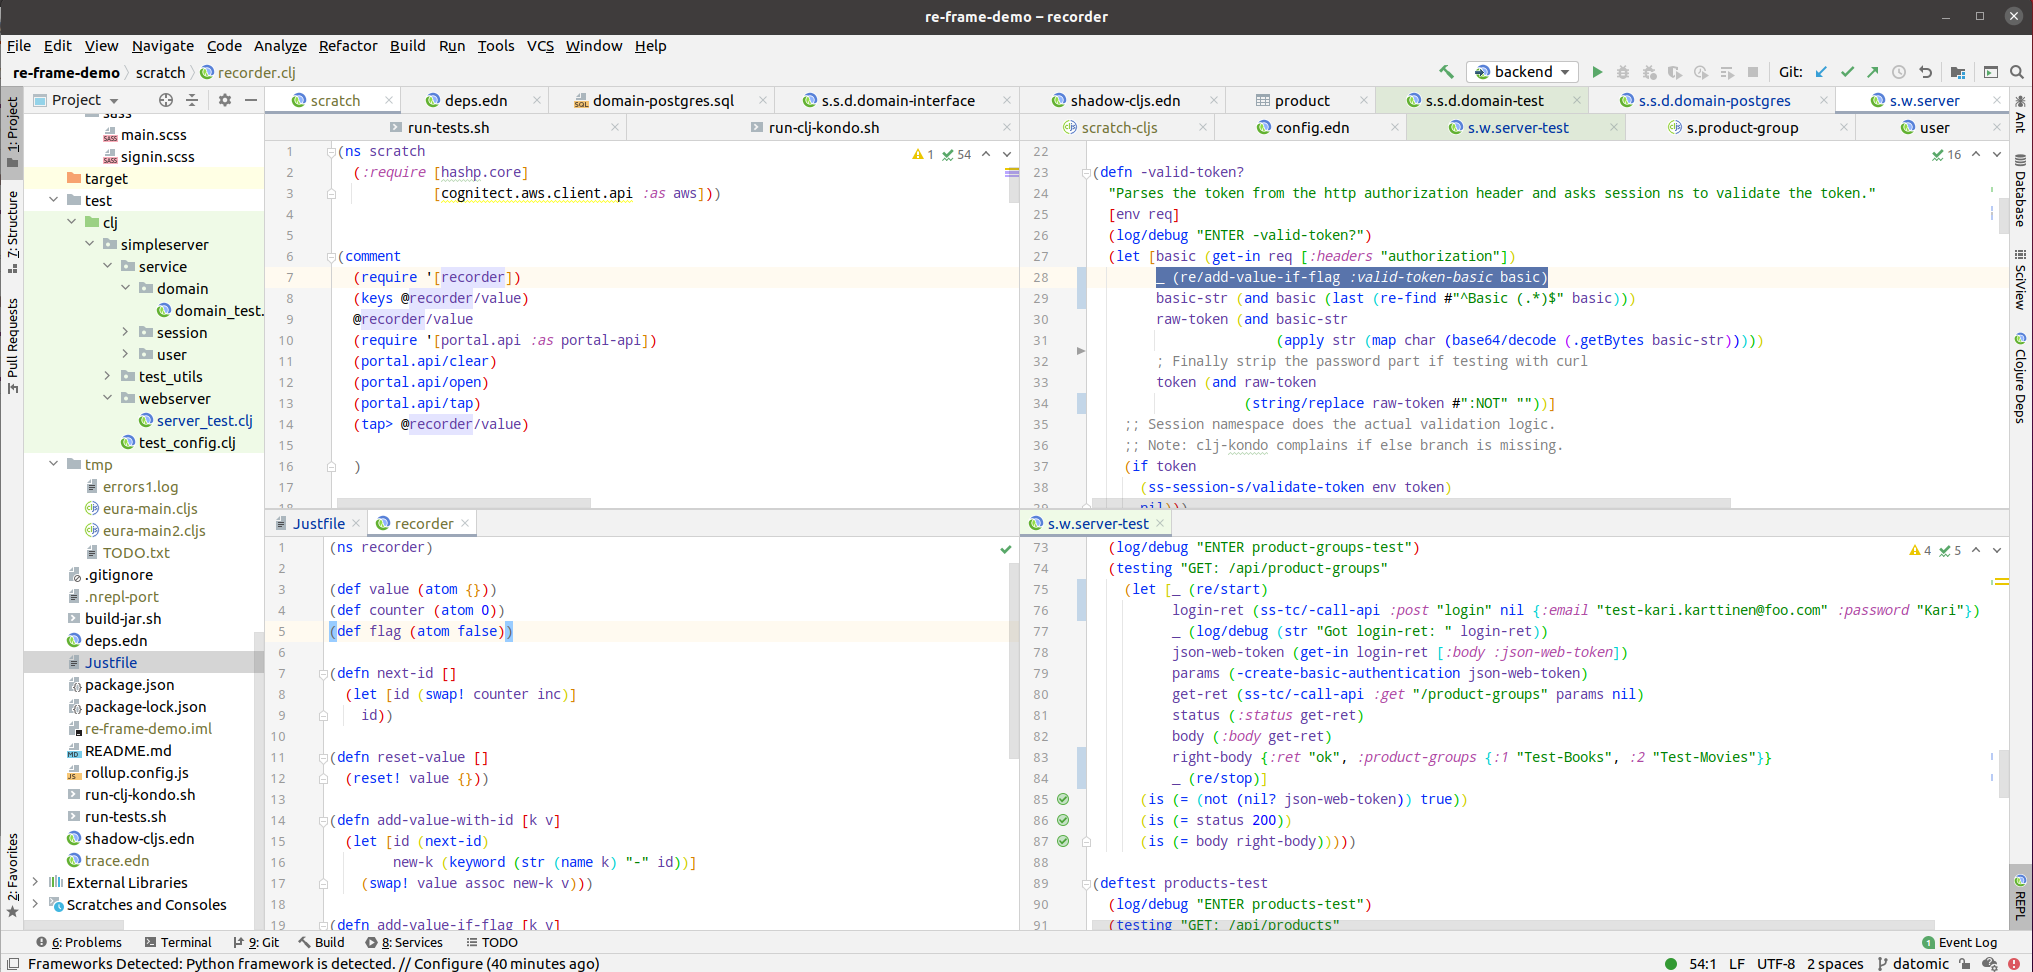
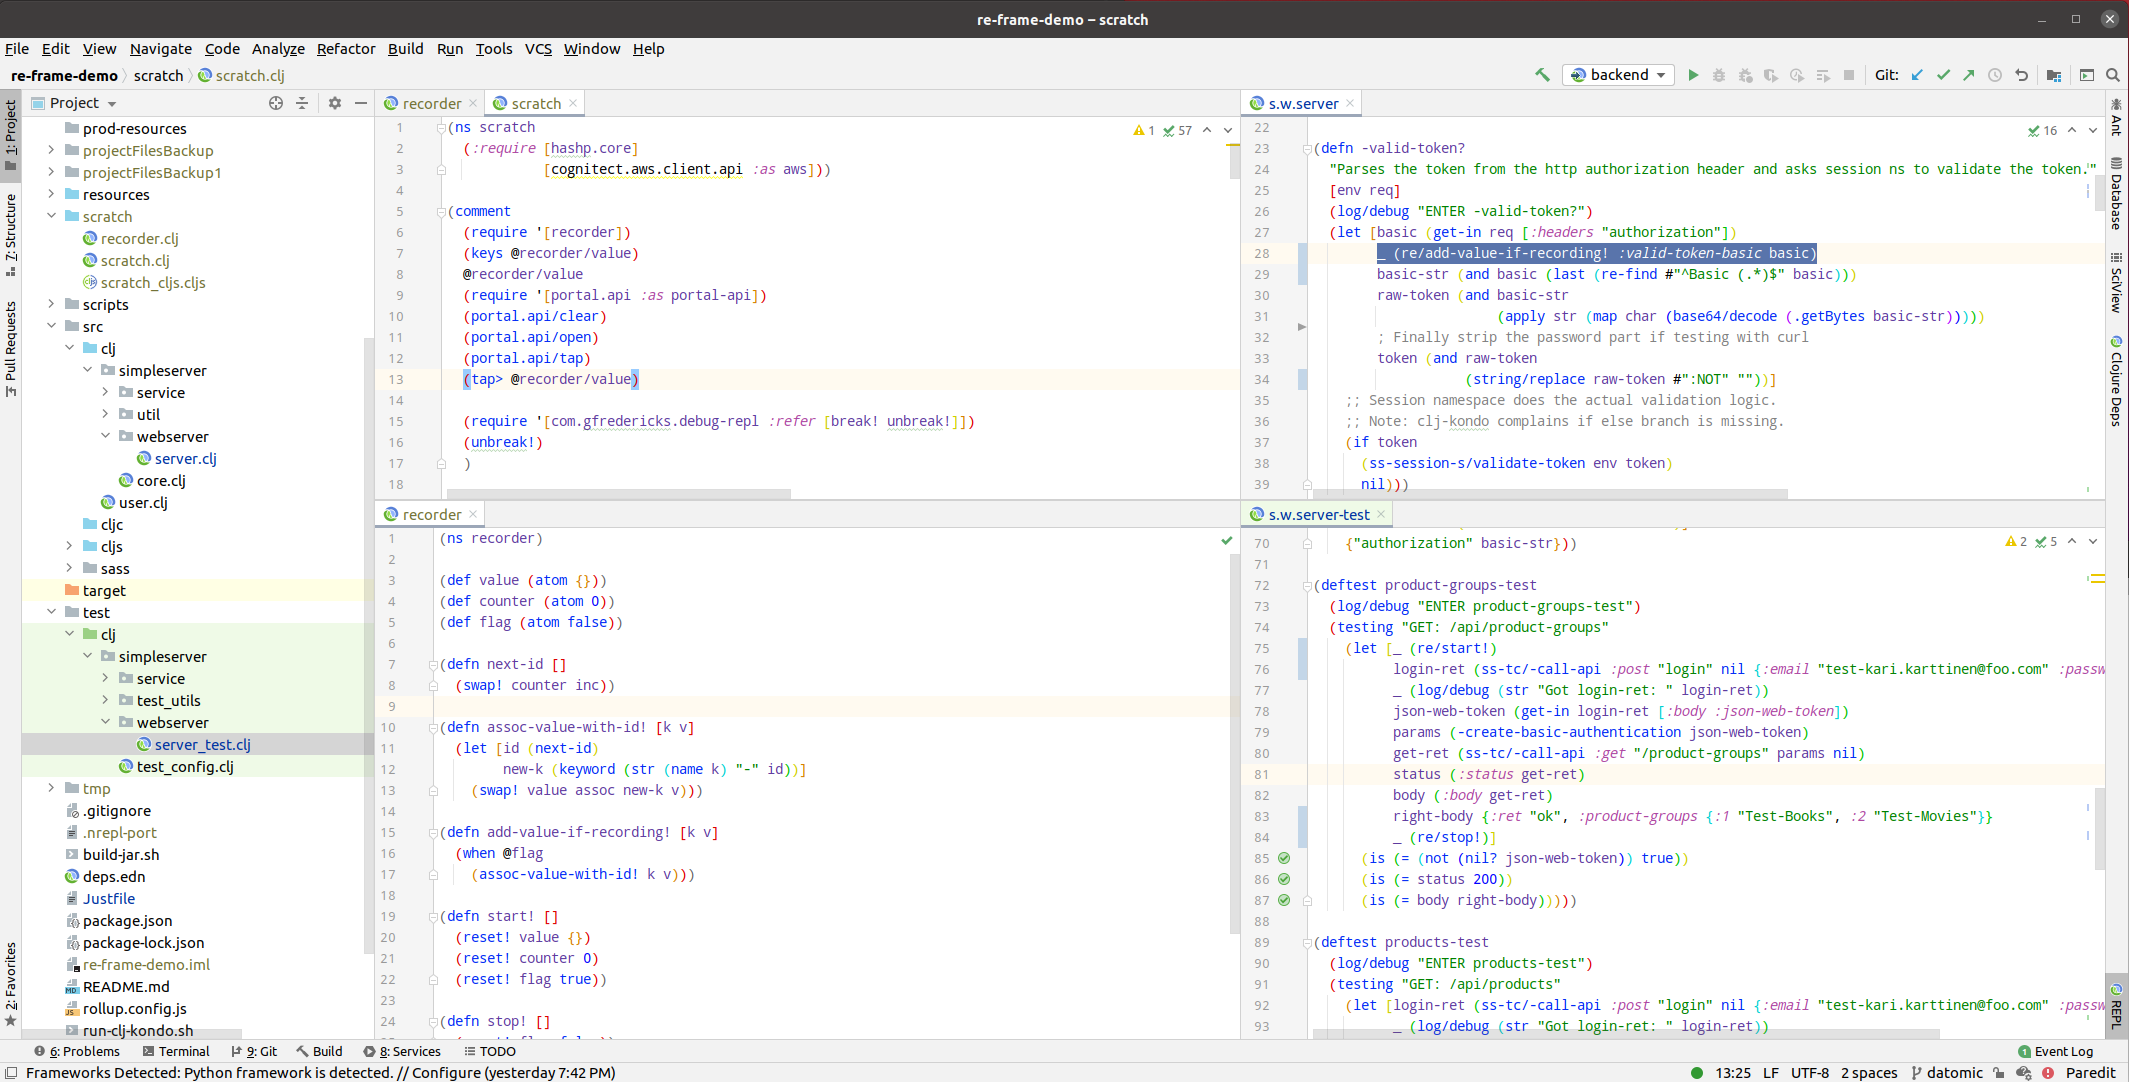
Fixed some Clojure idioms as suggested in Metosin slack

diff --git a/_posts/2020-10-29-clojure-power-tools-part-2.md b/_posts/2020-10-29-clojure-power-tools-part-2.md
@@ -25,27 +25,23 @@ I was refactoring some Clojure tests for the second version of a complicated app
 (def flag (atom false))
 
 (defn next-id []
-  (let [id (swap! counter inc)]
-    id))
+  (swap! counter inc))
 
-(defn reset-value []
-  (reset! value {}))
-
-(defn add-value-with-id [k v]
+(defn assoc-value-with-id! [k v]
   (let [id (next-id)
         new-k (keyword (str (name k) "-" id))]
     (swap! value assoc new-k v)))
 
-(defn add-value-if-flag [k v]
+(defn add-value-if-recording! [k v]
   (when @flag
-    (add-value-with-id k v)))
+    (assoc-value-with-id! k v)))
 
-(defn start []
+(defn start! []
   (reset! value {})
   (reset! counter 0)
   (reset! flag true))
 
-(defn stop []
+(defn stop! []
   (reset! flag false))
 ```
 
@@ -59,7 +55,7 @@ So, let's add the start/stop recording to the test we are interested:
 (deftest product-groups-test
   (log/debug "ENTER product-groups-test")
   (testing "GET: /api/product-groups"
-    (let [_ (re/start)
+    (let [_ (re/start!)
           login-ret (ss-tc/-call-api :post "login" nil {:email "test-kari.karttinen@foo.com" :password "Kari"})
           _ (log/debug (str "Got login-ret: " login-ret))
           json-web-token (get-in login-ret [:body :json-web-token])
@@ -68,29 +64,28 @@ So, let's add the start/stop recording to the test we are interested:
           status (:status get-ret)
           body (:body get-ret)
           right-body {:ret "ok", :product-groups {:1 "Test-Books", :2 "Test-Movies"}}
-          _ (re/stop)]
+          _ (re/stop!)]
       (is (= (not (nil? json-web-token)) true))
       (is (= status 200))
       (is (= body right-body)))))
 ```
 
-See the `(re/start)` and `(re/stop)` commands in the test - we are recording only during that time.
+See the `(re/start!)` and `(re/stop!)` commands in the test - we are recording only during that time.
 
 Then I can add stuff to my recorder where-ever I want:
 
 ```clojure
-
 (defn -valid-token?
   "Parses the token from the http authorization header and asks session ns to validate the token."
   [env req]
   (log/debug "ENTER -valid-token?")
   (let [basic (get-in req [:headers "authorization"])
-        _ (re/add-value-if-flag :valid-token-basic basic)
+        _ (re/add-value-if-recording! :valid-token-basic basic)
         basic-str (and basic (last (re-find #"^Basic (.*)$" basic)))
 ...
 ```
 
-I.e. `(re/add-value-if-flag :valid-token-basic basic)` (I just realized that one should not use technical terms like `flag` - a better name for this function would have been `add-value-if-recording`). 
+I.e. `(re/add-value-if-recording! :valid-token-basic basic)`.
 
 Run the tests.
 
